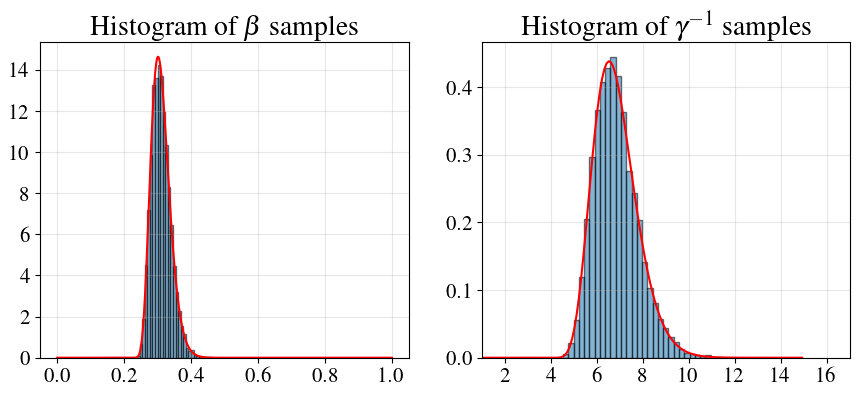
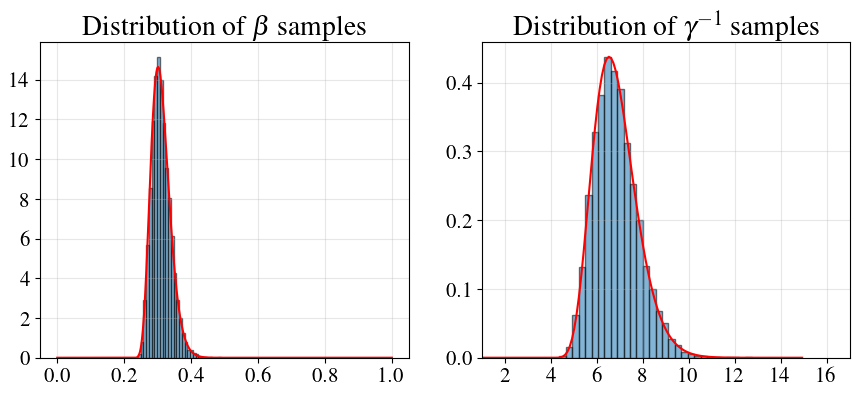
new updated on sensitivity analysis

diff --git a/epimodels/plots.py b/epimodels/plots.py
@@ -8,17 +8,17 @@ from   scipy.stats       import gamma as gamma_dist
 from   scipy.stats       import kde
 from scipy.interpolate   import UnivariateSpline
 
-import statsmodels.api as sm
-
 import matplotlib.pyplot as plt
+from mpl_toolkits.mplot3d import Axes3D
 from   matplotlib import rc
-
-from   epimodels.utils import *
-
-
 # For beautiful plots
 rc('font',**{'family':'serif','serif':['Times']})
 rc('text', usetex=True)
+
+
+import statsmodels.api       as sm
+from statsmodels.formula.api import ols
+from   epimodels.utils import *
 
 
 ############################################################################################################
@@ -101,8 +101,9 @@ def plotCriticalPointsStats(SIR_params, CO_samples, **kwargs):
     beta_samples      = SIR_params[:,0]
     gamma_inv_samples = SIR_params[:,1]
     tc_samples, Ipeak_samples, Tend_samples = CO_samples
+    R0_samples = beta_samples * gamma_inv_samples
 
-    # Compute Stats for each critical point distributions (t_c, I_peak, T_end)
+    # Compute Stats for each critical point distributions (t_c, I_peak, T_end and R0)
     tc_bar, tc_med, tc_std, tc_upper95, tc_lower95 = computeStats(tc_samples, bound_type='Quantiles', bound_param = [0.025, 0.975])
     _, _, _, tc_upper68, tc_lower68 = computeStats(tc_samples, bound_type='Quantiles', bound_param = [0.155, 0.835])
     tc_skew = stats.skew(tc_samples)    
@@ -117,6 +118,12 @@ def plotCriticalPointsStats(SIR_params, CO_samples, **kwargs):
     _, _, _, Tend_upper68, Tend_lower68 = computeStats(Tend_samples, bound_type='Quantiles', bound_param = [0.155, 0.835])
     Tend_skew = stats.skew(Tend_samples)
     print('Mean Tend=',Tend_bar, ' Med Tend=', Tend_med, 'Skew Tend=', Tend_skew)
+
+
+    R0_bar, R0_med, R0_std, R0_upper95, R0_lower95 = computeStats(R0_samples, bound_type='Quantiles', bound_param = [0.025, 0.975])
+    _, _, _, R0_upper68, R0_lower68 = computeStats(R0_samples, bound_type='Quantiles', bound_param = [0.155, 0.835])
+    R0_skew = stats.skew(R0_samples)    
+    print('Mean tc=',R0_bar, ' Med tc=', R0_med, 'Skew tc=', R0_skew)
 
     ####################################################################
     #### Plot histograms of t_c, I_peak and T_end vs. param-vector #####
@@ -259,8 +266,6 @@ def plotCriticalPointsStats(SIR_params, CO_samples, **kwargs):
     beta_std      = np.std(beta_samples, axis=0)
     gamma_inv_std = np.std(gamma_inv_samples, axis=0)
     if beta_std != 0 and gamma_inv_std != 0:
-        fig0, (ax01,ax02,ax03) = plt.subplots(1,3, constrained_layout=True)        
-
         # Variables for KDE Contour Plots of Parameter Samples
         x = beta_samples
         y = gamma_inv_samples
@@ -294,9 +299,48 @@ def plotCriticalPointsStats(SIR_params, CO_samples, **kwargs):
             masked_Ipeak = t_Ipeak[idx_Ipeak]
             idx_Tend     = np.nonzero(np.logical_and(t_Tend > Tend_kde_lower68, t_Tend < Tend_kde_upper68))
             masked_Tend  = t_Tend[idx_Tend]
+        
+        # Contour plots of 2D gaussian kde Param distribution with R0 Samples
+        # Find regressive model
+        x = beta_samples; y = gamma_inv_samples; z = R0_samples
+        X = x.flatten()
+        Y = y.flatten()
+        Z = z.flatten()
+        data = pandas.DataFrame({'x': X, 'y': Y, 'z': Z})
+        # Fit the model
+        model = ols("z ~ x + y", data).fit()
+        # Print the summary
+        print(model.summary())
+        print("\nRetrieving manually the parameter estimates:")
+        print(model._results.params)
 
-        # Contour plot for 2D gaussian kde distribution        
-        cset = ax01.contour(xx, yy, f, colors='k', alpha = 0.85)
+
+        fig00, ax00 = plt.subplots()     
+        cset = ax00.contour(xx, yy, f, colors='k', alpha = 0.9)
+        ax00.clabel(cset, inline=1, fontsize=10)        
+        cax = ax00.scatter(beta_samples, gamma_inv_samples, c=R0_samples,  cmap='tab20c', alpha = 0.55, s= 10)
+        # cax = ax00.scatter(beta_samples, gamma_inv_samples, R0_samples, c=R0_samples,  cmap='bwr', s=5, alpha = 0.55)
+        ax00.set_xlabel(r"$\beta$", fontsize=20)
+        ax00.set_ylabel(r"$\gamma^{-1}$", fontsize=20)
+        for tick in ax00.xaxis.get_major_ticks():
+            tick.label.set_fontsize(15) 
+        for tick in ax00.yaxis.get_major_ticks():
+            tick.label.set_fontsize(15)     
+        ax00.grid(True, alpha=0.3)
+        ax00.set_title(r"Distribution of $\beta,\gamma^{-1}$ vs. $R_{0}$", fontsize=20)
+        cbar = fig00.colorbar(cax, ax=ax00, orientation='vertical')
+        print('R0 min/max=',np.min(R0_samples), np.max(R0_samples))
+        num_intervals = int(np.ceil((np.max(R0_samples)-np.min(R0_samples))/0.15 ))
+        cbarlabels = np.around(np.linspace(np.min(R0_samples), np.max(R0_samples), num = 20, endpoint=True),decimals=2)
+        cbar.set_ticks(cbarlabels)
+        cbar.set_ticklabels(cbarlabels)
+        fig00.subplots_adjust(left=.12, bottom=.14, right=.93, top=0.93)
+        # fig00.tight_layout()
+        fig00.set_size_inches(29/2 * 0.35, 9/2, forward=True)
+
+        # Contour plots of 2D gaussian kde Param distribution with        
+        fig0, (ax01,ax02,ax03) = plt.subplots(1,3)        
+        cset = ax01.contour(xx, yy, f, colors='k', levels=10, alpha = 0.85)
         ax01.clabel(cset, inline=1, fontsize=10)        
         cax = ax01.scatter(x, y, c='w', edgecolor='k', alpha = 0.35, s= 10)
         cax = ax01.scatter(x[idx_tc], y[idx_tc], c=masked_tc,  cmap='RdBu', alpha = 0.35, s= 10)
@@ -307,8 +351,13 @@ def plotCriticalPointsStats(SIR_params, CO_samples, **kwargs):
         for tick in ax01.yaxis.get_major_ticks():
             tick.label.set_fontsize(15) 
         ax01.grid(True, alpha=0.3)
+        if do_95:
+            ax01.set_title(r'$95\% t_{c}$ Values')
+        else:
+            ax01.set_title(r'$ 68\% t_{c}$ Values')
+        fig0.colorbar(cax, ax=ax01, shrink=0.9)
         
-        cset = ax02.contour(xx, yy, f, colors='k', alpha = 0.85)
+        cset = ax02.contour(xx, yy, f, colors='k', levels=10, alpha = 0.85)
         ax02.clabel(cset, inline=1, fontsize=10)        
         cax = ax02.scatter(x, y, c='w', edgecolor='k', alpha = 0.35, s= 10)
         cax = ax02.scatter(x[idx_Ipeak], y[idx_Ipeak], c=masked_Ipeak,  cmap='PiYG', alpha = 0.35, s= 10)
@@ -319,9 +368,13 @@ def plotCriticalPointsStats(SIR_params, CO_samples, **kwargs):
         for tick in ax02.yaxis.get_major_ticks():
             tick.label.set_fontsize(15) 
         ax02.grid(True, alpha=0.3)
-        
+        if do_95:
+            ax02.set_title(r'$95\% I_{peak}$ Values')
+        else:
+            ax02.set_title(r'$68\% I_{peak}$ Values')
+        fig0.colorbar(cax, ax=ax02, shrink=0.9)
 
-        cset = ax03.contour(xx, yy, f, colors='k', alpha = 0.85)
+        cset = ax03.contour(xx, yy, f, colors='k', levels=10, alpha = 0.85)
         ax03.clabel(cset, inline=1, fontsize=10)
         cax = ax03.scatter(x, y, c='w', edgecolor='k', alpha = 0.35, s= 10)
         cax = ax03.scatter(x[idx_Tend], y[idx_Tend], c=masked_Tend,  cmap='bwr', alpha = 0.35, s= 10)        
@@ -332,23 +385,13 @@ def plotCriticalPointsStats(SIR_params, CO_samples, **kwargs):
         for tick in ax03.yaxis.get_major_ticks():
             tick.label.set_fontsize(15)     
         ax03.grid(True, alpha=0.3)
-
-        # Build your secondary mirror axes:
-        fig2, (ax3, ax4, ax5) = plt.subplots(1, 3)
-
-        # Build maps that parallel the color-coded data
-        # map1 = ax3.imshow(np.stack([t_tc, t_tc]),cmap='RdBu')
-        map1 = ax3.imshow(np.stack([masked_tc, masked_tc]),cmap='RdBu')
-        map2 = ax4.imshow(np.stack([t_Ipeak, t_Ipeak]),cmap='PiYG')
-        map3 = ax5.imshow(np.stack([t_Tend, t_Tend]),cmap='bwr')
-
-
-        # Add your maps onto your original figure/axes
-        fig0.colorbar(map1, ax=ax01)
-        fig0.colorbar(map2, ax=ax02)
-        fig0.colorbar(map3, ax=ax03)
-        # fig0.set_size_inches(25/2, 8.5/2, forward=True)
-        fig0.set_size_inches(27/2, 9/2, forward=True)
+        if do_95:
+            ax03.set_title(r'$95\% T_{end}$ Values')
+        else:
+            ax03.set_title(r'$68\% T_{end}$ Values')
+        fig0.colorbar(cax, ax=ax03, shrink=0.9)
+        fig0.subplots_adjust(left=.12, bottom=.14, right=.93, top=0.93)
+        fig0.set_size_inches(29/2, 8/2, forward=True)
 
 
 
@@ -1235,7 +1278,7 @@ def plotSIR_sampledParams(beta_samples, gamma_inv_samples, filename, *prob_param
             tick.label.set_fontsize(15) 
     plt.xlim(0, 1.0)            
     ax1.grid(True, alpha=0.3)
-    ax1.set_title(r"Histogram of $\beta$ samples", fontsize=20)
+    ax1.set_title(r"Distribution of $\beta$ samples", fontsize=20)
     
     ###############################################################
     ################## Plot for Gamma^-1 Samples ##################
@@ -1272,7 +1315,7 @@ def plotSIR_sampledParams(beta_samples, gamma_inv_samples, filename, *prob_param
             tick.label.set_fontsize(15)  
     plt.xlim(1, 17) 
     ax2.grid(True, alpha=0.3)    
-    plt.title(r"Histogram of $\gamma^{-1}$ samples", fontsize=20)    
+    plt.title(r"Distribution of $\gamma^{-1}$ samples", fontsize=20)    
 
     fig.subplots_adjust(left=.12, bottom=.14, right=.93, top=0.93)
     fig.set_size_inches(20/2, 8/2, forward=True)    

diff --git a/ex1c_sensitivitySampling_vanillaSIR_model.py b/ex1c_sensitivitySampling_vanillaSIR_model.py
@@ -121,7 +121,7 @@ def run(prob_type = 'gamma'):
     
 if __name__ == '__main__':
     """ Defined type of probability distributions to sample from:
-        gamma, log-Normal (proper distr)
-        gaussian, uniform (not adequate for \beta or \gamma_{-1})
+        gamma, log-Normal (proper distributions)
+        gaussian, uniform (not adequate for beta or gamma_{-1})
     """
-    run(prob_type = 'gamma')
+    run(prob_type = 'log-normal')
